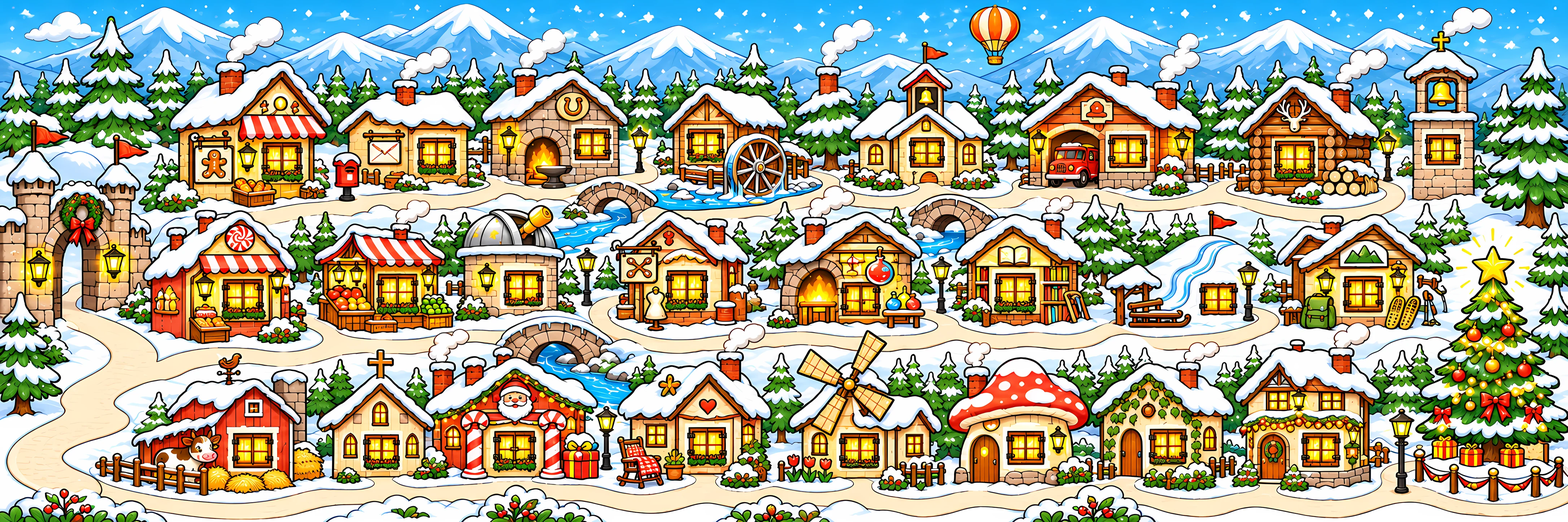
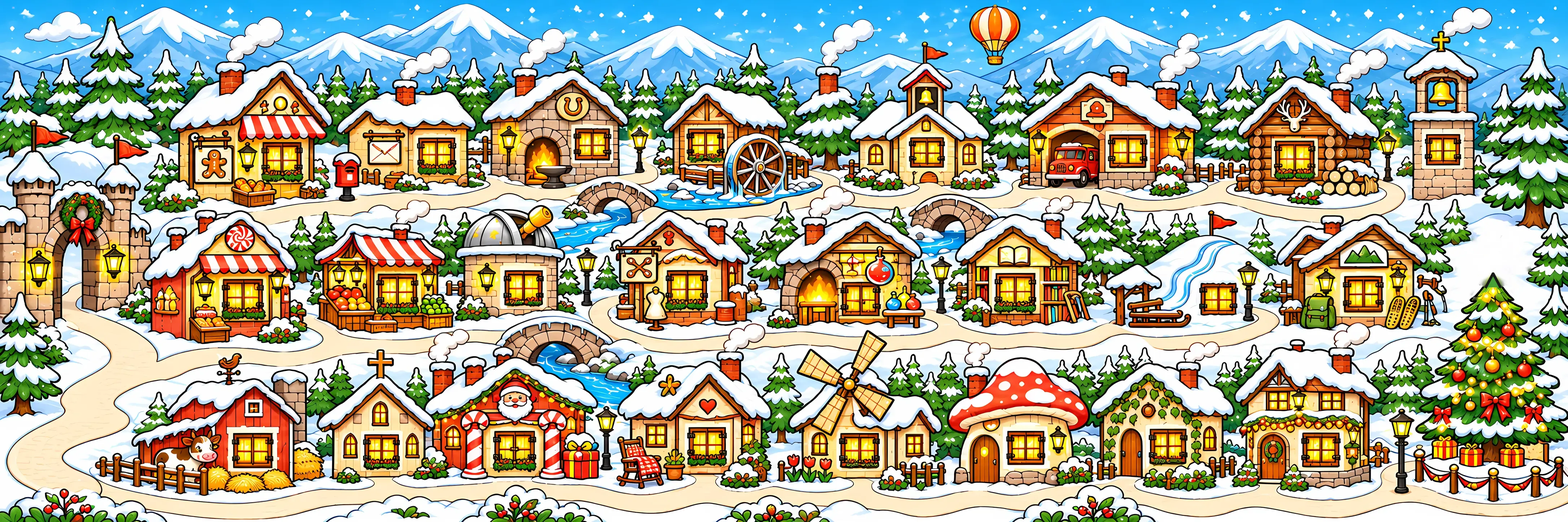
Add files via upload

Changed region(s): [[0.9323, 0.4351, 0.9634, 0.5594]]

diff --git a/vesnicka/index.html b/vesnicka/index.html
@@ -73,6 +73,12 @@
   @keyframes twinkle{0%,100%{transform:translate(-50%,-50%) scale(1) rotate(0)}50%{transform:translate(-50%,-50%) scale(1.12) rotate(12deg)}}
   @keyframes nudge{0%,100%{transform:none}30%{transform:translateY(-3px) rotate(-3deg)}60%{transform:translateY(-1px) rotate(3deg)}}
 
+  .hvezda-strom{position:absolute;left:2068px;top:368px;width:64px;height:64px;margin:-32px 0 0 -32px;z-index:4;pointer-events:none;opacity:0}
+  .hvezda-strom.na-miste{opacity:1}
+  .hvezda-strom .paprsky{opacity:0;transform-origin:32px 32px;transition:opacity .8s}
+  .hvezda-strom.sviti .paprsky{opacity:1;animation:otoc 9s linear infinite}
+  .hvezda-strom.sviti .telo{filter:drop-shadow(0 0 10px rgba(255,214,77,.95))}
+  @keyframes otoc{to{transform:rotate(360deg)}}
   .jiskra{position:absolute;width:12px;height:12px;pointer-events:none;z-index:6;animation:fly .9s ease-out forwards}
   @keyframes fly{from{transform:translate(-50%,-50%) scale(.4);opacity:1}to{transform:translate(calc(-50% + var(--dx)),calc(-50% + var(--dy))) scale(1);opacity:0}}
 
@@ -197,6 +203,7 @@
         <path id="cesta" fill="none" stroke="none"/>
         <g id="stopy"></g>
       </svg>
+      <div class="hvezda-strom" id="hvezdaStrom" aria-hidden="true"><svg viewBox="0 0 64 64" width="64" height="64"><g class="paprsky" stroke="#FFD23F" stroke-width="3.5" stroke-linecap="round"><path d="M32 2v8M32 54v8M2 32h8M54 32h8M10.8 10.8l5.6 5.6M47.6 47.6l5.6 5.6M10.8 53.2l5.6-5.6M47.6 16.4l5.6-5.6"/></g><path class="telo" d="M32 11 l6.2 13.2 14.4 1.8 -10.6 9.9 2.8 14.3 L32 43.2 19.2 50.2 22 35.9 11.4 26 25.8 24.2 Z" fill="#FFD23F" stroke="#1a1a1a" stroke-width="3" stroke-linejoin="round"/><path d="M27 22 l3-6" stroke="#fff6c2" stroke-width="2.5" stroke-linecap="round"/></svg></div>
       <div id="okna"></div>
       <button class="skritek idle" id="skritek" type="button" aria-label="Skřítek dobrodruh: klepni, nebo zmáčkni mezerník, a dojde k dalšímu domečku">
         <span class="bublina" id="bublina">Klepni na mě!</span>
@@ -222,7 +229,7 @@
   <svg width="22" height="14" viewBox="0 0 22 14" aria-hidden="true"><path d="M7 2 L2 7 L7 12 M15 2 L20 7 L15 12 M2 7 H20" fill="none" stroke="#000" stroke-width="2.5" stroke-linecap="round" stroke-linejoin="round"/></svg>
   <span class="d">Klikni kamkoli nebo zmáčkni mezerník</span><span class="m">Klepni kamkoli, do stran táhni prstem</span>
 </div>
-<div class="brana" id="brana" hidden>
+<div class="brana" id="brana">
   <div class="karta" role="dialog" aria-modal="true" aria-labelledby="bNadpis">
     <img class="sk-mini" src="sk_r0.webp" alt="">
     <h2 id="bNadpis">Vítej v Adventní vesničce!</h2>
@@ -447,6 +454,7 @@
     if (typ === 'vyzva') html += '<p><strong>Body vám připíšeme v dohledné době</strong>, pokud jste v e-shopu registrovaní pod stejným e-mailem.</p>';
     if (typ === 'hra') html += '<button class="akce" type="button" data-akce="hra">' + svgPlay + 'Hrát hru</button>';
     if (o.bonus) html += '<p style="margin-top:14px"><a class="reg" href="' + o.bonus + '" target="_blank" rel="noopener" download>Bonus: omalovánka k vytisknutí</a></p>';
+    if (h.day === 24 && !hvezdaStrom.classList.contains('na-miste')) html += '<div class="kapitola"><strong>⭐ Poslední úkol:</strong> dojdi se skřítkem až k vánočnímu stromečku a vrať hvězdu na její místo!</div>';
     if (o.losovani) {
       const n = opened.size;
       html += '<div class="losbox"><strong>Jsi v losování o 3 poukazy na nákup!</strong><br>Tvoje jméno bude v osudí ' + n + '× (' + (n === 1 ? '1 otevřené okýnko' : n + ' otevřených okýnek') + '). Losujeme v neděli 27. 12. a výherce zveřejníme na Instagramu a v e-mailu.</div>';
@@ -498,7 +506,7 @@
   const P_KEY = 'pmd-pripominka';
   const maPripominku = () => { try { return !!localStorage.getItem(P_KEY); } catch (e) { return false; } };
   const pripom = $('pripom');
-  let ecmNacteno = false;
+  let ecmNacteno = false, ecmEmail = '';
   function nactiEcomail() {
     if (ecmNacteno) return; ecmNacteno = true;
     (function (w, d, s, o, f, js, fjs) {
@@ -508,9 +516,15 @@
     }(window, document, 'script', 'ecmwidget', 'https://d70shl7vidtft.cloudfront.net/widget.js'));
     // remember a successful sign-up: the thank-you screen contains "18:00" text after submit
     const box = $('f-' + ECM_ID);
+    box.addEventListener('input', (e) => { if (e.target && /email/i.test((e.target.type || '') + (e.target.name || ''))) ecmEmail = e.target.value.trim().toLowerCase(); }, true);
     new MutationObserver(() => {
       const t = box.textContent || '';
-      if (/Hotovo|zapnutou/i.test(t)) { try { localStorage.setItem(P_KEY, JSON.stringify({ at: Date.now() })); } catch (e) {} }
+      if (/Hotovo|zapnutou/i.test(t) && !box.dataset.hotovo) {
+        box.dataset.hotovo = '1';
+        try { localStorage.setItem(P_KEY, JSON.stringify({ at: Date.now() })); } catch (e) {}
+        if (!emailOk(mujEmail) && emailOk(ecmEmail)) { mujEmail = ecmEmail; try { localStorage.setItem(E_KEY, ecmEmail); } catch (e) {} }
+        zaloguj('pripominka');
+      }
     }).observe(box, { childList: true, subtree: true, characterData: true });
     setTimeout(() => { const n = $('pNacita'); if (n && n.isConnected) n.textContent = 'Formulář se nenačetl. Zkus to prosím za chvíli znovu.'; }, 8000);
   }
@@ -539,7 +553,7 @@
     const q = new URLSearchParams(location.search);
     const z = (q.get('e') || q.get('email') || '').trim();
     if (z && emailOk(z)) $('bEmail').value = z;
-    if (!emailOk(mujEmail)) { brana.hidden = false; } else { zaloguj('navsteva'); }
+    if (!emailOk(mujEmail)) { brana.hidden = false; } else { brana.hidden = true; zaloguj('navsteva'); }
   })();
   brana.addEventListener('click', (e) => e.stopPropagation());
   brana.addEventListener('pointerdown', (e) => e.stopPropagation());
@@ -737,15 +751,41 @@
     if (i === at) { arriveAt(i, ukazat); return; }
     walkTo(STOPS[i], () => arriveAt(i, ukazat));
   }
+
+  // ---------------- the Christmas star: missing all advent, on 24 Dec the skritek walks to the tree and puts it back ----------------
+  const H_KEY = 'pmd-hvezda';
+  const hvezdaStrom = $('hvezdaStrom');
+  try { if (localStorage.getItem(H_KEY) && opened.has(24)) hvezdaStrom.classList.add('na-miste', 'sviti'); } catch (e) {}
+  function vratHvezdu() {
+    if (hvezdaStrom.classList.contains('na-miste')) return false;
+    const p = path.getPointAtLength(curLen);
+    const sx = p.x - 2068, sy = (p.y - 70) - 368;
+    hvezdaStrom.classList.add('na-miste');
+    const done = () => {
+      hvezdaStrom.classList.add('sviti');
+      sparkles({ cx: 2068, cy: 368 });
+      try { localStorage.setItem(H_KEY, '1'); } catch (e) {}
+      say('Hvězda svítí!'); toast('Hvězda je zpátky na stromečku. Veselé Vánoce!');
+    };
+    if (reduceMotion) { done(); return true; }
+    hvezdaStrom.animate([
+      { transform: 'translate(' + sx + 'px,' + sy + 'px) scale(.5)', opacity: 0 },
+      { transform: 'translate(' + sx + 'px,' + sy + 'px) scale(.7)', opacity: 1, offset: .15 },
+      { transform: 'translate(' + sx * .45 + 'px,' + (sy * .45 - 90) + 'px) scale(1.25) rotate(200deg)', offset: .6 },
+      { transform: 'translate(0,0) scale(1) rotate(360deg)', opacity: 1 }
+    ], { duration: 1900, easing: 'cubic-bezier(.4,.1,.3,1)' }).onfinish = done;
+    return true;
+  }
+
   function advance() {
     if (walking) return;
     if (dal() < 24) { jdiK(dal() + 1, false); return; }   // always on to the next new window
     if (curLen < END_LEN - 1) {
       $('navhint').classList.add('hide');
-      walkTo(END_LEN, () => { walking = false; facing = 1; place(curLen); sk.classList.add('idle'); say('Veselé Vánoce!'); toast('Celá vesnička je prošlá. Veselé Vánoce!'); });
+      walkTo(END_LEN, () => { walking = false; facing = 1; place(curLen); sk.classList.add('idle'); if (!vratHvezdu()) { say('Veselé Vánoce!'); toast('Celá vesnička je prošlá. Veselé Vánoce!'); } });
       return;
     }
-    toast('Celá vesnička je prošlá. Veselé Vánoce!');
+    if (!vratHvezdu()) toast('Celá vesnička je prošlá. Veselé Vánoce!');
   }
   // click with the mouse or tap anywhere in the village (a drag only pans)
   scrollerEl().addEventListener('click', () => { if (dragMoved) return; advance(); });
@@ -829,6 +869,7 @@
   $('reset').addEventListener('click', () => {
     cancelAnimationFrame(raf); walking = false;
     opened.clear(); at = 0; save(); updateCount();
+    hvezdaStrom.classList.remove('na-miste', 'sviti'); try { localStorage.removeItem(H_KEY); } catch (e) {}
     houses.forEach(h => h.el.classList.remove('open', 'next', 'past', 'cerstve'));
     while (stopy.firstChild) stopy.removeChild(stopy.firstChild);
     curLen = STOPS[0]; lastPrint = curLen; facing = 1; place(curLen);
